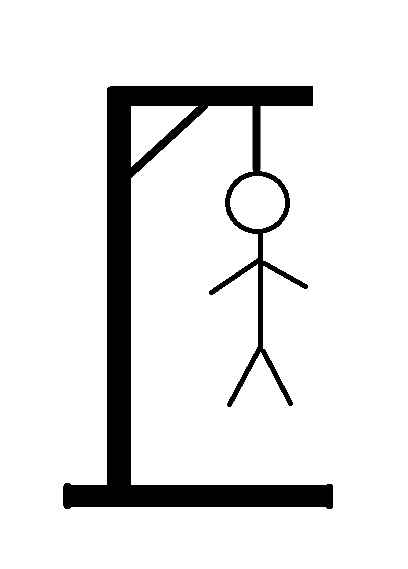
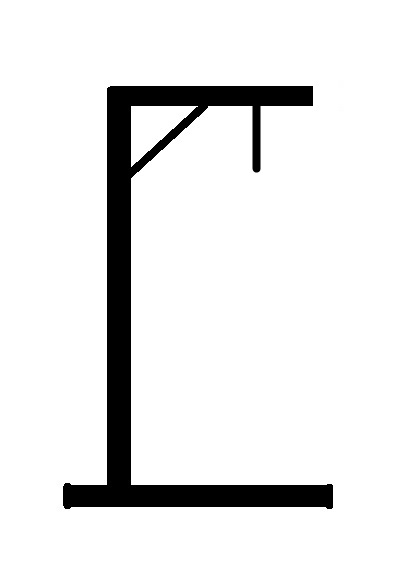
Finishing touches -Got images to work -implemented clues

diff --git a/assets/javascript/game.js b/assets/javascript/game.js
@@ -9,17 +9,31 @@
 
 var gameObject = {
     superHeroWords: ["ironman", "superman", "antman", "vasp", "hulk", "thor", "wonderwoman", "flash", "aquaman", "spiderman", "storm", "blackwidow", "mystique", "loki", "hellboy", "deadpool"],
+    superClues: ["Wears Iron Suit", "Man of Steel", "Can shrink", "Can Shrink", "Becomes Green", "Has a Hammer", "Has a Lasso", "Can run fast", "Can Breath Under Water", "shoots web", "Can Control Weather", "Natasha Romanova", "Can Shapshift", "God of Mischief","Has Horns", "wears red suit"],
     alphabet: "abcdefghijklmnopqrstuvwxyz",
     winsSoFar: 0,
     lossesSoFar: 0,
     correctAnswer: "",
+    currentClue: "",
     yourGuessesSoFar: [],
     alreadyEntered: -1, //lets keep this as deafult value for now
     gameOver: false,
     dashesAndGuesses: [],
-    guess: 0,
+    guess: 8,
 }
 
+
+var imageArray = [
+    "./assets/images/hangman/0.jpg", 
+    "./assets/images/hangman/1.jpg", 
+    "./assets/images/hangman/2.jpg",
+    "./assets/images/hangman/3.jpg",
+    "./assets/images/hangman/4.jpg",
+    "./assets/images/hangman/5.jpg",
+    "./assets/images/hangman/6.jpg",
+    "./assets/images/hangman/7.jpg",
+    "./assets/images/hangman/8.jpg"
+]
 var yourGuess = ""; //empty string to save your guess
 
 var tbUserText = document.getElementById("user-text");
@@ -29,13 +43,15 @@ var tbGuessesSoFar = document.getElementById("yourGuess");
 var tbJumbotronInfobar = document.getElementById("jumbo-tron");
 var tbWinsSoFar = document.getElementById("wins-so-far");
 var tbLossesSoFar = document.getElementById("losses-so-far");
+var tbCurrentClue = document.getElementById("current-clue");
+var imgHangmanImage = document.getElementById("hangman-Image")
 
 
 document.getElementById("start-game").onclick = function () {
     startGame();
 };
 
-function publishDefaults(){
+function publishDefaults() {
     //maybe add default text when game resets. part of refactor
 }
 
@@ -48,7 +64,8 @@ function resetTheGame() {
     gameObject.gameOver = false;
     gameObject.dashesAndGuesses = [];
     tbCorrectWord.textContent = correctAnswerWithDashesAndGuesses("");
-
+    tbCurrentClue.textContent = "";
+    imgHangmanImage.src = imageArray[imageArray.length-1];
 }
 function startGame() {
     resetTheGame();
@@ -65,7 +82,7 @@ function startGame() {
             if (validateUserGuess(yourGuess)) {
                 tbGuessesLeft.textContent = "You have " + gameObject.guess + " guesses left";
                 tbCorrectWord.textContent = correctAnswerWithDashesAndGuesses(yourGuess);
-                tbGuessesSoFar.textContent =  allUserGuesses();
+                tbGuessesSoFar.textContent = allUserGuesses();
                 if (hasCorrectAnswerBeenGuessed()) {
                     tbJumbotronInfobar.textContent = "You Win!"
                     gameObject.winsSoFar++;
@@ -100,8 +117,10 @@ function hasCorrectAnswerBeenGuessed() {
 function createCorrectAnswer() {
     gameStarted = true;
     gameObject.dashesAndGuesses = [];
-    returnStr = gameObject.correctAnswer = gameObject.superHeroWords[Math.floor(Math.random() * gameObject.superHeroWords.length)];
-    gameObject.guess = returnStr.length;
+    var randNumber = Math.floor(Math.random() * gameObject.superHeroWords.length);
+    returnStr = gameObject.correctAnswer = gameObject.superHeroWords[randNumber];
+    gameObject.currentClue = gameObject.superClues[randNumber];
+    gameObject.guess = 8;
     return returnStr;
 }
 
@@ -136,6 +155,11 @@ function validateUserGuess(userGuess) {
             return true;
         } else {
             gameObject.guess--;
+            if(gameObject.guess === 2)
+            {
+                tbCurrentClue.textContent = "Here is a clue: " + gameObject.currentClue;
+            }
+            imgHangmanImage.src = imageArray[gameObject.guess];
             gameObject.yourGuessesSoFar.push(userGuess);
             return true;
         }

diff --git a/index.html b/index.html
@@ -25,15 +25,19 @@
             <div class="container">
                 <div class="row">
                     <div class="col-md-6">
-                        <button type="button" class="btn btn-primary" id="start-game">Start the Game</button>
-                        <p id="user-text"><strong>...Nothing.</strong></p>
+                        <button type="button" class="btn btn-primary btn-lg btn-block" id="start-game">Start New Game</button>
+                        <p style="color:white;" id="user-text"><strong></strong></p>
                         <!-- <h2>The word to guess is <p id="correct-word"> <strong> ...nothing yet</strong></p></h2> -->
                         <p>Guess what letter I'm Thinking</p>
                         <p> Wins: <span id="wins-so-far"> 0</span></p>
                         <p>Losses: <span id="losses-so-far">Losses: 0</span></p>
                         <p id="guesses-left">Guesses Left: 0</p>
                         <p>Your Guesses so Far: <span id="yourGuess">0</span></p>
+                        <p id="current-clue"></p>
                         <p class="mStyle" id="message"></p>
+                    </div>
+                    <div class="col-md-6">
+                            <img src="./assets/images/hangman.jpg" alt="hangman" height=300 width=200 id="hangman-Image">
                     </div>
                 </div>
             </div>
